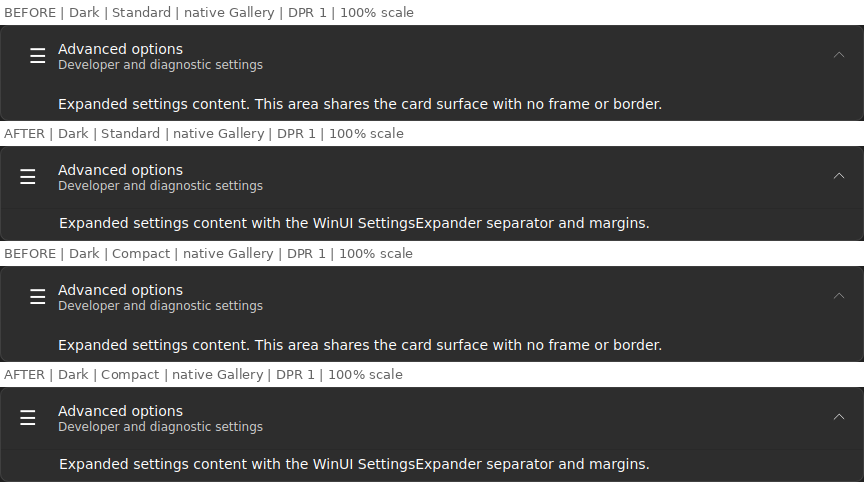
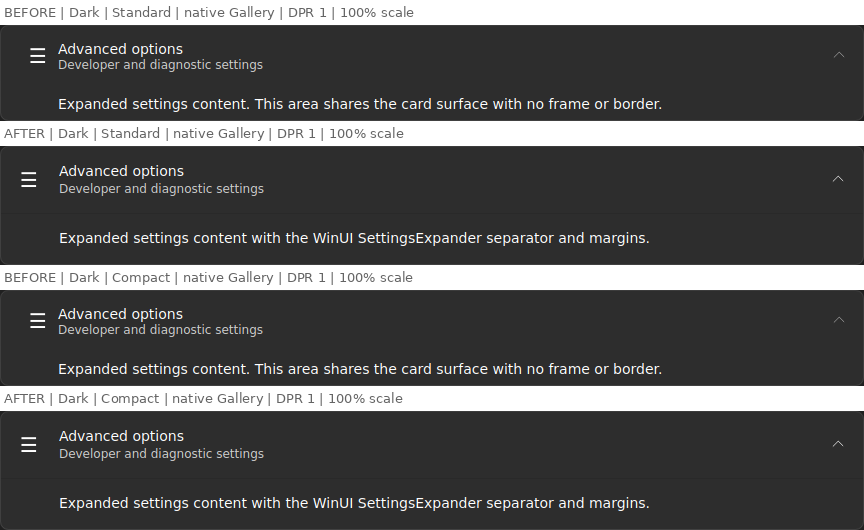
Account for item borders and align expanded Settings content

diff --git a/src/lib/settingscard.cpp b/src/lib/settingscard.cpp
@@ -63,11 +63,13 @@ SettingsCard::SettingsCard(QWidget *parent)
     m_headerHost->setMouseTracking(true);
     m_headerHost->installEventFilter(this);
     m_headerHost->setSizePolicy(QSizePolicy::Expanding, QSizePolicy::Fixed);
-    m_headerLayout->setContentsMargins(Private::SettingsCardPadding, 12,
-                                       Private::SettingsCardPadding, 12);
-    m_headerLayout->setHorizontalSpacing(12);
+    m_headerLayout->setContentsMargins(
+            Private::SettingsCardPadding + Private::SettingsCardBorderThickness, 12,
+            Private::SettingsExpanderChevronMargin + Private::SettingsCardBorderThickness, 12);
+    m_headerLayout->setHorizontalSpacing(Private::SettingsCardIconTrailingMargin);
     m_headerLayout->setVerticalSpacing(2);
-    m_iconLabel->setFixedWidth(20);
+    m_iconLabel->setFixedWidth(20 + Private::SettingsCardIconLeadingMargin);
+    m_iconLabel->setContentsMargins(Private::SettingsCardIconLeadingMargin, 0, 0, 0);
     m_iconLabel->setAlignment(Qt::AlignCenter);
     m_titleLabel->setSizePolicy(QSizePolicy::Expanding, QSizePolicy::Preferred);
     m_descriptionLabel->setSizePolicy(QSizePolicy::Expanding, QSizePolicy::Preferred);
@@ -75,7 +77,8 @@ SettingsCard::SettingsCard(QWidget *parent)
     m_titleLabel->setObjectName(QStringLiteral("_winui_settings_card_title"));
     m_descriptionLabel->setObjectName(QStringLiteral("_winui_settings_card_description"));
     m_chevronLabel->setObjectName(QStringLiteral("_winui_settings_card_chevron"));
-    m_chevronLabel->setFixedSize(20, 20);
+    m_chevronLabel->setFixedSize(Private::SettingsExpanderChevronBoxSize,
+                                 Private::SettingsExpanderChevronBoxSize);
     m_chevronLabel->setAlignment(Qt::AlignCenter);
     m_chevronLabel->setVisible(false);
     // Decorative header children let the header host receive the gesture so
@@ -94,7 +97,7 @@ SettingsCard::SettingsCard(QWidget *parent)
     m_headerLayout->addWidget(m_titleLabel, 0, 1);
     m_headerLayout->addWidget(m_descriptionLabel, 1, 1);
     m_headerLayout->addWidget(m_chevronLabel, 0, 2, 2, 1, Qt::AlignVCenter);
-    m_headerLayout->setColumnMinimumWidth(2, 20);
+    m_headerLayout->setColumnMinimumWidth(2, Private::SettingsExpanderChevronBoxSize);
     m_headerLayout->setColumnStretch(1, 1);
     m_headerHost->setLayout(m_headerLayout);
     m_rootLayout->addWidget(m_headerHost);
@@ -367,10 +370,11 @@ void SettingsCard::setExpandableWidget(QWidget *widget)
     }
     m_expandableWidget = widget;
     if (widget) {
-        auto *layout = new QVBoxLayout(m_expandableHost);
+        auto *layout = new QGridLayout(m_expandableHost);
         const bool rtl = layoutDirection() == Qt::RightToLeft;
         layout->setContentsMargins(Private::settingsExpanderContentMargins(rtl));
-        layout->addWidget(widget);
+        layout->setRowMinimumHeight(0, Private::SettingsExpanderContentRowMinHeight);
+        layout->addWidget(widget, 0, 0, Qt::AlignVCenter);
         widget->installEventFilter(this);
         const QPointer<QWidget> guarded = widget;
         m_expandableDestroyedConnection =
@@ -527,7 +531,8 @@ int SettingsCard::expandableContentHeight()
 
     const int width = m_expandableWidget->width();
     if (!m_expandableHeightValid || m_expandableContentWidth != width) {
-        m_expandableContentHeight = qMax(0, m_expandableWidget->sizeHint().height() + 16);
+        m_expandableContentHeight = qMax(Private::SettingsExpanderContentMinHeight,
+                                         m_expandableHost->layout()->sizeHint().height());
         m_expandableContentWidth = width;
         m_expandableHeightValid = true;
     }
@@ -598,6 +603,16 @@ void SettingsCard::changeEvent(QEvent *event)
             || event->type() == QEvent::LayoutDirectionChange;
     if (refreshHeader) {
         refreshIconPixmap();
+        if (event->type() == QEvent::LayoutDirectionChange) {
+            const bool rtl = layoutDirection() == Qt::RightToLeft;
+            const int leading = Private::SettingsCardPadding + Private::SettingsCardBorderThickness;
+            const int trailing =
+                    Private::SettingsExpanderChevronMargin + Private::SettingsCardBorderThickness;
+            m_headerLayout->setContentsMargins(rtl ? trailing : leading, 12,
+                                               rtl ? leading : trailing, 12);
+            m_iconLabel->setContentsMargins(rtl ? 0 : Private::SettingsCardIconLeadingMargin, 0,
+                                            rtl ? Private::SettingsCardIconLeadingMargin : 0, 0);
+        }
         if (event->type() == QEvent::LayoutDirectionChange && m_expandableHost->layout()) {
             const bool rtl = layoutDirection() == Qt::RightToLeft;
             m_expandableHost->layout()->setContentsMargins(

diff --git a/tests/tst_winui3settingscard.cpp b/tests/tst_winui3settingscard.cpp
@@ -150,6 +150,8 @@ private slots:
     void settingsCardExpansion();
     void settingsCardContentGeometry_data();
     void settingsCardContentGeometry();
+    void settingsCardNestedExpansionSeparator_data();
+    void settingsCardNestedExpansionSeparator();
     void settingsCardDesignerPropertyBindings();
     void settingsCardTrailingWidgetsReceiveClicks();
     void settingsCardTrailingWidgetsHaveUniformHeight();
@@ -374,12 +376,12 @@ void WinUI3SettingsCardTest::settingsCardChevronAndStableHeader()
     card.setProperty("expansionProgress", 0.0);
     QCoreApplication::processEvents();
     QCOMPARE(chevronRotation(), 0.0);
-    QCOMPARE(chevron->geometry().size(), QSize(20, 20));
+    QCOMPARE(chevron->geometry().size(), QSize(32, 32));
     const QImage collapsedGlyph = card.grab().toImage().copy(chevronInCard);
     card.setProperty("expansionProgress", 0.5);
     QCoreApplication::processEvents();
     QCOMPARE(chevronRotation(), 90.0);
-    QCOMPARE(chevron->geometry().size(), QSize(20, 20));
+    QCOMPARE(chevron->geometry().size(), QSize(32, 32));
     const QImage midpointGlyph = card.grab().toImage().copy(chevronInCard);
     QVERIFY(collapsedGlyph != midpointGlyph);
     card.setProperty("expansionProgress", 0.0);
@@ -881,8 +883,16 @@ void WinUI3SettingsCardTest::settingsCardContentGeometry()
     QCOMPARE(host->x(), 0);
     QCOMPARE(host->width(), card.width());
     QCOMPARE(host->layout()->contentsMargins(),
-             rtl ? QMargins(45, 6, 59, 9) : QMargins(59, 6, 45, 9));
+             rtl ? QMargins(45, 7, 59, 9) : QMargins(59, 7, 45, 9));
     QCOMPARE(details->mapTo(&card, QPoint()).x(), rtl ? 45 : 59);
+    auto *title = card.findChild<QLabel *>(QStringLiteral("_winui_settings_card_title"));
+    const int contentLeading = details->mapTo(&card, QPoint()).x() + (rtl ? details->width() : 0);
+    const int titleLeading = title->mapTo(&card, QPoint()).x() + (rtl ? title->width() : 0);
+    QCOMPARE(contentLeading, titleLeading);
+    QCOMPARE(details->geometry().center().y(), (host->height() - 9 + 7 - 1) / 2);
+    QCOMPARE(host->sizeHint().height(), 51);
+    QVERIFY(host->height() >= 51);
+
     const int seam = host->y() - 1;
     const QImage image = card.grab().toImage();
     const auto t = WinUI3::Private::tokens(card.palette());
@@ -893,6 +903,38 @@ void WinUI3SettingsCardTest::settingsCardContentGeometry()
     painter.fillRect(expected.rect(), t.cardStroke);
     painter.end();
     QCOMPARE(image.pixelColor(card.width() / 2, seam), expected.pixelColor(0, 0));
+}
+
+void WinUI3SettingsCardTest::settingsCardNestedExpansionSeparator_data()
+{
+    settingsCardContentGeometry_data();
+}
+void WinUI3SettingsCardTest::settingsCardNestedExpansionSeparator()
+{
+    QFETCH(bool, dark);
+    QFETCH(bool, compact);
+    QFETCH(bool, rtl);
+    qobject_cast<WinUI3::Style *>(qApp->style())
+            ->setThemeMode(dark ? WinUI3::ThemeMode::Dark : WinUI3::ThemeMode::Light);
+    QFrame outer;
+    WinUI3::Style::setSettingsCard(&outer);
+    WinUI3::Style::setDensityMode(
+            &outer, compact ? WinUI3::DensityMode::Compact : WinUI3::DensityMode::Standard);
+    outer.setLayoutDirection(rtl ? Qt::RightToLeft : Qt::LeftToRight);
+    outer.resize(480, 400);
+    auto *inner = new WinUI3::SettingsCard(&outer);
+    inner->setTitle(QStringLiteral("Nested"));
+    inner->setExpandableWidget(new QLabel(QStringLiteral("Details")));
+    inner->setGeometry(80, 160, 300, 200);
+    outer.show();
+    inner->setExpanded(true);
+    QTRY_COMPARE(inner->property("expansionProgress").toReal(), 1.0);
+    auto *host = inner->findChild<QWidget *>(QStringLiteral("_winui_settings_card_expandableHost"));
+    const int wrongSeam = host->y() - 1;
+    QVERIFY(wrongSeam < inner->y());
+    const QImage image = outer.grab().toImage();
+    // A nested host has no right to add a separator to the outer card.
+    QCOMPARE(image.pixelColor(20, wrongSeam), image.pixelColor(20, wrongSeam - 1));
 }
 
 QTEST_MAIN(WinUI3SettingsCardTest)

diff --git a/src/lib/winui3viewrenderers_p.cpp b/src/lib/winui3viewrenderers_p.cpp
@@ -428,9 +428,11 @@ bool drawChromeControl(const Style *style, QStyle::ControlElement element,
         controlSurface(painter, option->rect, fill, t.stroke, t.strokeSecondary, OverlayRadius);
         // The header's bottom border remains visible above the expanded
         // content. Both stock and compiled compositions delegate it here.
-        const QWidget *content = expansion ? expansion
-                                           : widget->findChild<QWidget *>(QStringLiteral(
-                                                     "_winui_settings_card_expandableHost"));
+        const QWidget *content = expansion
+                ? expansion
+                : widget->findChild<QWidget *>(
+                          QStringLiteral("_winui_settings_card_expandableHost"),
+                          Qt::FindDirectChildrenOnly);
         if (content && content->isVisible() && content->height() > 0 && content->y() > 0)
             painter->fillRect(
                     QRect(option->rect.left() + 1, content->y() - 1, option->rect.width() - 2, 1),
@@ -452,8 +454,9 @@ bool drawChromeControl(const Style *style, QStyle::ControlElement element,
             // corners are top-only (ExpandDown), which the card stroke above
             // already keeps for the frame; the chevron stays centered on the
             // header, not on the whole expanded card.
-            constexpr int chevronButtonSize = 32;
-            constexpr int chevronTrailingMargin = 8;
+            constexpr int chevronButtonSize = SettingsExpanderChevronBoxSize;
+            constexpr int chevronTrailingMargin =
+                    SettingsExpanderChevronMargin + SettingsCardBorderThickness;
             const int headerHeight =
                     qBound(0, settingsCardHeaderHeight(widget), option->rect.height());
             const QRect header(option->rect.left(), option->rect.top(), option->rect.width(),
@@ -527,9 +530,11 @@ bool drawChromeControl(const Style *style, QStyle::ControlElement element,
             // Qt's QToolBoxButton bolds the selected page, so the bold is
             // dropped by painting the option font as-is.
             constexpr int headerContentInset = 16; // ExpanderHeaderPadding 16,0,0,0
-            constexpr int chevronButtonSize = 32; // ExpanderChevronButtonSize
+            constexpr int chevronButtonSize =
+                    SettingsExpanderChevronBoxSize; // ExpanderChevronButtonSize
             constexpr int chevronGlyphSize = 12; // ExpanderChevronGlyphSize
-            constexpr int chevronTrailingMargin = 8; // ExpanderChevronMargin trailing 8
+            constexpr int chevronTrailingMargin = SettingsExpanderChevronMargin
+                    + SettingsCardBorderThickness; // ExpanderChevronMargin trailing 8
             constexpr int chevronContentGap = 20; // ExpanderChevronMargin leading 20
             constexpr qreal chevronRadius = 4.0; // ControlCornerRadius
             // Expander CornerRadius is ControlCornerRadius (4). ExpandDown

diff --git a/tests/tst_winui3galleryprobe.cpp b/tests/tst_winui3galleryprobe.cpp
@@ -784,8 +784,8 @@ void WinUI3GalleryProbeTest::settingsIconAlignment()
         auto *icon = window.findChild<QLabel *>(names.second);
         const int x = icon->mapTo(card, QPoint()).x();
         QCOMPARE(icon->size(), QSize(20, 20));
-        // SettingsCardPadding.Left 16 + HeaderIconMargin.Left 2.
-        QCOMPARE(rtl ? card->width() - x - icon->width() : x, 18);
+        // SettingsCardborder 1 + Padding.Left 16 + HeaderIconMargin.Left 2.
+        QCOMPARE(rtl ? card->width() - x - icon->width() : x, 19);
         const QImage image = card->grab().toImage();
         const QRect bounds(icon->mapTo(card, QPoint()), icon->size());
         const QColor surface = image.pixelColor(bounds.left() - 1, bounds.center().y());
@@ -810,13 +810,21 @@ void WinUI3GalleryProbeTest::settingsExpansionMargins()
     auto *card = window.findChild<QFrame *>("advancedCard");
     auto *host = window.findChild<QWidget *>("advancedDetailsHost");
     card->setProperty("winuiSettingsCardExpanded", true);
-    QTRY_VERIFY(host->height() > 0);
+    QTRY_VERIFY(host->maximumHeight() == QWIDGETSIZE_MAX);
+    QTRY_VERIFY(host->height() >= 51);
     // Item padding + content border + the template's -2 presenter overlap.
     QCOMPARE(host->layout()->contentsMargins(),
-             rtl ? QMargins(45, 6, 59, 9) : QMargins(59, 6, 45, 9));
+             rtl ? QMargins(45, 7, 59, 9) : QMargins(59, 7, 45, 9));
     auto *label = window.findChild<QLabel *>("advancedDetails");
-    QCOMPARE(label->mapTo(host, QPoint()).y(), 6);
+    QCOMPARE(label->geometry().center().y(), (host->height() - 9 + 7 - 1) / 2);
     QCOMPARE(label->mapTo(host, QPoint()).x(), rtl ? 45 : 59);
+    auto *title = window.findChild<QLabel *>("advancedTitle");
+    const int contentLeading = label->mapTo(card, QPoint()).x() + (rtl ? label->width() : 0);
+    const int titleLeading = title->mapTo(card, QPoint()).x() + (rtl ? title->width() : 0);
+    QCOMPARE(contentLeading, titleLeading);
+    QCOMPARE(host->minimumSizeHint().height(), 51);
+    QVERIFY(host->height() >= 51);
+    QVERIFY(window.findChild<QWidget *>("advancedHeader")->height() >= 68);
 }
 void WinUI3GalleryProbeTest::settingsExpansionSeparator_data()
 {
@@ -865,7 +873,7 @@ void WinUI3GalleryProbeTest::settingsChevronForeground()
         const auto t = WinUI3::Private::tokens(card->palette());
         const QColor ink = enabled ? t.textPrimary : t.textDisabled;
         QCOMPARE(ink.alpha(), enabled ? (dark ? 255 : 228) : (dark ? 93 : 92));
-        const QRect logical(card->width() - 8 - 32, (header->height() - 32) / 2, 32, 32);
+        const QRect logical(card->width() - 9 - 32, (header->height() - 32) / 2, 32, 32);
         const QRect box = QStyle::visualRect(card->layoutDirection(), header->rect(), logical);
         const QImage actual = card->grab().toImage();
         QImage expected(box.size(), QImage::Format_ARGB32_Premultiplied);

diff --git a/src/lib/winui3tokens_p.h b/src/lib/winui3tokens_p.h
@@ -22,8 +22,15 @@ constexpr int NormalDuration = 250;
 constexpr int SettingsExpanderExpandDuration = 333;
 constexpr int SettingsExpanderCollapseDuration = 167;
 constexpr int SettingsExpanderChevronGlyphSize = 16;
+constexpr int SettingsExpanderChevronBoxSize = 32;
+constexpr int SettingsExpanderChevronMargin = 8;
+constexpr int SettingsCardContentSpacing = 24;
 // SettingsControls templates pinned in docs/coverage.md (issue #56).
 constexpr int SettingsCardPadding = 16;
+constexpr int SettingsCardBorderThickness = 1;
+constexpr int SettingsCardMinHeight = 68;
+constexpr int SettingsExpanderContentMinHeight = 52 - 2 + 1;
+constexpr int SettingsExpanderContentRowMinHeight = SettingsExpanderContentMinHeight - 7 - 9;
 constexpr int SettingsCardIconLeadingMargin = 2;
 constexpr int SettingsCardIconTrailingMargin = 20;
 inline QMargins settingsCardIconMargins(bool rtl)
@@ -34,12 +41,13 @@ inline QMargins settingsCardIconMargins(bool rtl)
 inline QMargins settingsExpanderHeaderMargins(bool rtl)
 {
     // HeaderPadding 16,16,4,16 + the 32 px chevron box + 8 px margin.
-    return rtl ? QMargins(44, 16, 16, 16) : QMargins(16, 16, 44, 16);
+    return rtl ? QMargins(45, 17, 17, 17) : QMargins(17, 17, 45, 17);
 }
 inline QMargins settingsExpanderContentMargins(bool rtl)
 {
-    // ItemPadding 58,8,44,8 + border 1,0,1,1 + presenter Margin 0,-2,0,0.
-    return rtl ? QMargins(45, 6, 59, 9) : QMargins(59, 6, 45, 9);
+    // ItemPadding 58,8,44,8 + content border 1,0,1,1 + item border 0,1,0,0
+    // + presenter Margin 0,-2,0,0. Header also includes its 1 px border.
+    return rtl ? QMargins(45, 7, 59, 9) : QMargins(59, 7, 45, 9);
 }
 constexpr qreal ControlRadius = 4.0;
 constexpr qreal OverlayRadius = 8.0;

diff --git a/src/gallery/gallerywindow.cpp b/src/gallery/gallerywindow.cpp
@@ -142,6 +142,17 @@ void GalleryWindow::refreshCardIcons()
                              static_cast<QLayout *>(ui->updatesCardIconLayout),
                              static_cast<QLayout *>(ui->advancedIconLayout) })
         layout->setContentsMargins(WinUI3::Private::settingsCardIconMargins(rtl));
+    const int inset =
+            WinUI3::Private::SettingsCardPadding + WinUI3::Private::SettingsCardBorderThickness;
+    for (QLayout *layout : { static_cast<QLayout *>(ui->notificationsCardLayout),
+                             static_cast<QLayout *>(ui->updatesCardLayout) })
+        layout->setContentsMargins(inset, inset, inset, inset);
+    ui->advancedTextLayout->setContentsMargins(
+            rtl ? WinUI3::Private::SettingsCardContentSpacing : 0, 0,
+            rtl ? 0 : WinUI3::Private::SettingsCardContentSpacing, 0);
+    ui->advancedHeader->setMinimumHeight(WinUI3::Private::SettingsCardMinHeight);
+    ui->advancedDetailsLayout->setRowMinimumHeight(
+            0, WinUI3::Private::SettingsExpanderContentRowMinHeight);
     ui->advancedHeaderLayout->setContentsMargins(
             WinUI3::Private::settingsExpanderHeaderMargins(rtl));
     ui->advancedDetailsLayout->setContentsMargins(

diff --git a/docs/coverage.md b/docs/coverage.md
@@ -209,7 +209,7 @@ to `source-audited`; missing evidence remains explicit in the last column.
 | opted-in `QDialog` / `QMessageBox` | ContentDialog | Compound mapping | source-audited | `messageBoxContentDialogContract`, `messageBoxRichTextLabelsDoNotOverlap`; distinct content and command/footer surfaces, 320×184 minimum, 24 px content margin, 12 px spacing, accent default button, Fluent message glyphs and 83/250 ms show motion; live modality/dismissal/dark comparison remains |
 | `QWizard` / `QWizardPage` | Multi-step dialog composition | Consistency extension | source-audited | separate content/footer surfaces and automatic accent Next/Finish roles are covered; the command strip now sits on the same `SolidBackgroundFillColorBase` token as ContentDialog's CommandSpace (`dialogCommandFillColor`, `#202020` Dark / `#F3F3F3` Light) instead of the app chrome `Window` tone that made it indistinguishable from the raised body, and it is reparented into Qt's full-size wizard body host - as a sibling it was painted under that host and never showed, which is why the strip read as body `#2C2C2C`; `wizardSurfaceContract` and `wizardOpenThemeSwitchLifecycle` assert the footer fill against the token in both themes. Qt <= 6.11 also flipped every wizard to `AeroStyle` on its first Show even when `SH_WizardStyle` answered `ModernStyle` (Qt initializes `vistaInitPending` to true; 6.12 only sets it for AeroStyle), which offset the body host by the Vista title bar and pushed the command row out of the client rect; polish now re-asserts `ModernStyle`, and `wizardSurfaceContract` pairs the footer pixel with `wizardStyle()` and the host's top edge. Native navigation, cancellation, RTL and live WinUI comparison remain |
 | `QAbstractItemView[winuiNavigationView=true]` | NavigationView item | Semantic variant | partial - in-card defect live-confirmed fixed 2026-11-05, uniform-mica direction accepted; 2026-10-06 uniform-mica reversal (reviewer: no added pane backgrounds — shell pane and palette preview stay on the bare material) | style-owned delegate, real click, selected-pill transition, palette ownership and Mica/theme restoration tested; `Selected` / `PointerOverSelected` / `PressedSelected` map to Secondary / Tertiary / Secondary. `navigationSelectedStateFill` reproduced the reversed order RED across Light/Dark × Standard/Compact, then passed GREEN after correcting those fills. `navigationIconlessTextInset` likewise reproduced the 42px iconless inset RED, then passed GREEN at 18px, retaining 42px when an icon exists; the pinned XAML has `IconCollapsed` column width 8px and content margin 4px. Compact official instance, mouse-down frame, keyboard focus and motion remain unverified |
-| `QFrame[winuiSettingsCard=true]` + child `[winuiSettingsCardExpansion=true]` / settings-card and SettingsExpander composition | Gallery Settings page | Semantic variant + compound behavior | partial — issue #56 reopens icon alignment, expansion separator/margins and chevron ink (2026-11-14); animation lifecycle reopened and fixed 2026-11-13; local native Qt Light/Dark × Standard/Compact expansion, reversal, keyboard, rapid toggles, hide/show, resize and close-during-collapse pass completed with matching rebuilt DLLs at DPR 1; pinned official comparison remains before restoring the prior 2026-11-07 Verified status; `settingsCardExpansion` and `settingsCardStockExpansionAnimationLifecycle` cover motion and application/per-widget style replacement | Mapping: the card is `SettingsCard.xaml` (CardBackgroundFillColorDefault, 1 px CardStrokeColorDefault, ControlCornerRadius, Padding 16,16,16,16, MinWidth 148, MinHeight 68, header icon MaxSize 20 with Margin 2,0,20,0, header text panel trailing margin 24, description `SettingsCardDescriptionFontSize` 12). `winuiSettingsCardExpansion=true` on the direct child marks the collapsible content; `winuiSettingsCardExpanded` is the read/write state. The style owns the header hit area (up to the child's y), StrongFocus with a keyboard-only ring, the ChevronDown glyph in a 32×32 box with Margin 0,0,8,0 (16 px glyph rotating 0→180°), and the expand 0.333 s / collapse 0.167 s splines from `SettingsExpander.xaml` (`components/SettingsControls`, CommunityToolkit/Windows `main`). The compiled `SettingsCard` shares these duration/easing definitions and paints the same 16 px glyph through the style. Stock card size policy is Fixed vertically like the compiled widget, so a stretched page gives spare height to its trailing stretch. Density does not alter the pinned card metrics (Compact covered by a data row). Issue #56 mapping declared before implementation: preserve stock Qt composition; QStyle paints the header/content seam with `ExpanderContentBorderBrush` = `CardStrokeColorDefault` (black alpha 15 Light / 25 Dark, not ControlStroke or FlyoutStroke). `ExpanderChevronForeground` = TextFillColorPrimaryBrush. Header icon layout reserves its actual 2 leading + 20 icon + 20 trailing pixels, without centering inside the full 42 px lane. Compose SettingsExpanderItemPadding 58,8,44,8 with ExpanderContentDownBorderThickness 1,0,1,1 and ContentPresenter Margin 0,-2,0,0: effective content margins 59,6,45,9 (mirror horizontally in RTL). SettingsControls source pinned to CommunityToolkit/Windows `a2fa47ad72cb95ed81f3ff0885da627a5fd6c14e`, `components/SettingsControls/src/{SettingsCard/SettingsCard.xaml,SettingsExpander/SettingsExpander.xaml}`; Microsoft Expander/Common resources remain pinned to `9f89c2da5a5502c263d9268fee224697c47ecb6e`. No new widget, QSS or per-widget paint. |
+| `QFrame[winuiSettingsCard=true]` + child `[winuiSettingsCardExpansion=true]` / settings-card and SettingsExpander composition | Gallery Settings page | Semantic variant + compound behavior | partial — issue #56 reopens icon alignment, expansion separator/margins and chevron ink (2026-11-14); animation lifecycle reopened and fixed 2026-11-13; local native Qt Light/Dark × Standard/Compact expansion, reversal, keyboard, rapid toggles, hide/show, resize and close-during-collapse pass completed with matching rebuilt DLLs at DPR 1; pinned official comparison remains before restoring the prior 2026-11-07 Verified status; `settingsCardExpansion` and `settingsCardStockExpansionAnimationLifecycle` cover motion and application/per-widget style replacement | Mapping: the card is `SettingsCard.xaml` (CardBackgroundFillColorDefault, 1 px CardStrokeColorDefault, ControlCornerRadius, Padding 16,16,16,16, MinWidth 148, MinHeight 68, header icon MaxSize 20 with Margin 2,0,20,0, header text panel trailing margin 24, description `SettingsCardDescriptionFontSize` 12). `winuiSettingsCardExpansion=true` on the direct child marks the collapsible content; `winuiSettingsCardExpanded` is the read/write state. The style owns the header hit area (up to the child's y), StrongFocus with a keyboard-only ring, the ChevronDown glyph in a 32×32 box with Margin 0,0,8,0 (16 px glyph rotating 0→180°), and the expand 0.333 s / collapse 0.167 s splines from `SettingsExpander.xaml` (`components/SettingsControls`, CommunityToolkit/Windows `main`). The compiled `SettingsCard` shares these duration/easing definitions and paints the same 16 px glyph through the style. Stock card size policy is Fixed vertically like the compiled widget, so a stretched page gives spare height to its trailing stretch. Density does not alter the pinned card metrics (Compact covered by a data row). Issue #56 mapping declared before implementation: preserve stock Qt composition; QStyle paints the header/content seam with `ExpanderContentBorderBrush` = `CardStrokeColorDefault` (black alpha 15 Light / 25 Dark, not ControlStroke or FlyoutStroke). `ExpanderChevronForeground` = TextFillColorPrimaryBrush. Header icon layout reserves its actual 2 leading + 20 icon + 20 trailing pixels, without centering inside the full 42 px lane. Compose SettingsExpanderItemPadding 58,8,44,8 with ExpanderContentDownBorderThickness 1,0,1,1, the item top border 0,1,0,0 and ContentPresenter Margin 0,-2,0,0: effective content margins 59,7,45,9 (mirror horizontally in RTL). Header padding includes the same 1 px border (icon x19, text x59). Map one DefaultSettingsExpanderItemStyle item: MinHeight 52 with presenter -2 and content border +1 gives a 51 px minimum band, with a 35 px vertically centered content row. Multiple arbitrary child rows and ItemsHeader/ItemsFooter are not claimed as item-template mappings. SettingsControls source pinned to CommunityToolkit/Windows `a2fa47ad72cb95ed81f3ff0885da627a5fd6c14e`, `components/SettingsControls/src/{SettingsCard/SettingsCard.xaml,SettingsExpander/SettingsExpander.xaml}`; Microsoft Expander/Common resources remain pinned to `9f89c2da5a5502c263d9268fee224697c47ecb6e`. No new widget, QSS or per-widget paint. |
 | `Top-level QWidget[winuiBackdrop=mica]` (+ `micaalt`, `acrylic`) | Window SystemBackdrop (Mica / Mica Alt / Desktop Acrylic via `DWMWA_SYSTEMBACKDROP_TYPE`) | Direct | partial — caption lifecycle reopened 2026-09-19 | `applyBackdrop` maps to DWM `DWMSBT_MAINWINDOW`/`TABBEDWINDOW`/`TRANSIENTWINDOW` + full-frame extend, opaque `Painted` fallback offscreen/refused; single erase policy in `winui3helpers_p.h` (shared gate + recipe 1 erase-then-fill default, recipe 2 erase-means-transparent, recipe 3 `clearForBackdropFill` for acrylic popup pills) + island scroll guard + chrome/content transparentize/restore covered by `backdropLifecycleContract`, `backdrop*DoesNotAccumulate`, `islandScrollPostsFullViewportRepaint`, `materialErase*`, theme/chrome/resize/expose/move contracts; caption evidence below; broader live compositor verification remains. |
 | `QTabWidget` pane + item-view card inside `winuiSurface=content` under a live backdrop | TabView content card over SystemBackdrop (same veiled LayerFill card recipe as the Fluent group card) | Direct (backdrop extension of the TabView/ListView rows above) | Verified 2026-11-05 - live Gallery pass over the Collections page under Mica (defect 2026-10-03) | Mapping: NONE mode keeps the opaque `t.control` pane card with a `t.surface` gap (unchanged, snapshot-matrix covered). Over a Composited material the pane keeps `veiledCard(t.layer)` — white@128 Light / (58,58,58)@76 Dark, the same token group cards use, clamped by `VeiledCardAlpha` — while the island gap around the card and the window chrome stay alpha 0. `QTabWidget` and its pages are keep-opaque container cards (recipe 1 fill via `PE_FrameTabWidget`, never transparentized by `syncContentSurfacesForBackdrop`), and a child `PE_Widget` Source-clear inside the card is skipped by the shared card guard. Mechanism evidence: `tabPaneCardVeilsOverComposited` (RED pane alpha 0 / transparent card canvas → GREEN veiled card tone + alpha-0 gap); recipe state re-scoped in `tabPaneCardLinksStayOpaqueWhileIslandSharesMaterial`. The pane's top stroke sits on the tab bar's last row (`PM_TabBarBaseOverlap == 1`), and the unselected tab shape used to Source-clear its whole rect — erasing that 1 px hairline to alpha 0 over the material while NONE kept it, so the Collections strip lost its separator; the clear now stops one row short, and `galleryTreeKeepsCardFillOverComposited` reproduces the real Designer tree (RED `row 31 … #00000000` → GREEN stroke composited over the pane veil, with the bare-strip alpha-0 and token/geometry asserts paired). Live re-review of the Collections page under Mica remains required before Verified. |
 | child viewport / editor / splitter / check / lineedit inside an opaque card under a live backdrop | child control over a card surface (WinUI paints children on the card, never a hole to the material) | Consistency extension (backdrop contract of the `QGroupBox` row above) | Verified 2026-11-05 - live Gallery pass; defect 2026-10-04 fixed, mechanism green 2026-11-05 - the shared `insideOpaqueCard` guard keeps card children on the card fill, and the `palettePreview` card itself is bare material by the 2026-10-06 uniform-mica direction; the pass covered the in-card item view, editor, checkbox and line edit plus the Dialogs-page splitter panes and table viewport | Mapping: the card keeps its `veiledCard(t.layer)` fill, and a child that paints straight onto the material by the shared gate must never Source-clear the card fill — the slider/scrollbar precedent (`backdropSliderInsideOpaqueCardKeepsCardFill`, `scrollBarInsideOpaqueCardKeepsCardFill`) is now the shared `insideOpaqueCard` guard used by the `PE_Widget` erase path, the scroll-chain/bare-container sync, and the range-control erases. Viewport/editor/splitter children inside a card are not transparentized (no `WA_StyledBackground`, no zero-alpha Window role), and even a directly dispatched `PE_Widget` erase returns without clearing. Selected/hovered item rows rebuild the card tone under the pill (same erase-then-fill, `treeSelectionKeepsCardFillOverComposited`, 2026-10-06). Mechanism evidence: `groupCardChildKeepsCardFillOverComposited` (RED card canvas punched to alpha 0 under the viewport/editor → GREEN card tone survives, paired token/geometry asserts). Live re-review of the scrolled Dialogs page under Mica remains required before Verified. |

diff --git a/docs/validation/issue56/README.md b/docs/validation/issue56/README.md
@@ -4,11 +4,11 @@
 
 Issue: https://github.com/JulienMaille/WinUI3Style/issues/56
 
-The existing stock QFrame/expansion QWidget composition remains unchanged. QStyle owns the separator, chevron, input state and expansion animation. The compiled SettingsCard helper uses the same content-margin and separator contract.
+The existing stock QFrame/expansion QWidget composition remains in use. QStyle owns the separator, chevron, input state and expansion animation. The compiled SettingsCard helper uses the same content-margin and separator contract. The layout maps one DefaultSettingsExpanderItemStyle item; arbitrary multi-row content and ItemsHeader/ItemsFooter do not claim individual item-template coverage.
 
-The icon occupies a 20 px label with 2 px leading and 20 px trailing margins. A 42 px lane must not center the label in the unused trailing space. The Gallery now mirrors the physical margins in RTL.
+The icon starts at border 1 + padding 16 + leading margin 2 = 19 px. The icon occupies a 20 px label with 2 px leading and 20 px trailing margins. A 42 px lane must not center the label in the unused trailing space. The Gallery now mirrors the physical margins in RTL.
 
-The expanded content combines `SettingsExpanderItemPadding` (58,8,44,8), `ExpanderContentDownBorderThickness` (1,0,1,1), and `ContentPresenter.Margin` (0,-2,0,0). The effective margins are 59,6,45,9, mirrored horizontally in RTL. The header bottom border remains visible as a one-pixel separator.
+The expanded content combines `SettingsExpanderItemPadding` (58,8,44,8), `ExpanderContentDownBorderThickness` (1,0,1,1), item border (0,1,0,0), and `ContentPresenter.Margin` (0,-2,0,0). The effective margins are 59,7,45,9, mirrored horizontally in RTL. The header bottom border remains visible as a one-pixel separator. The item adds its own 1 px top border and MinHeight 52; after presenter overlap and content bottom border, the expansion band has minimum height 51. Header padding also includes the outer 1 px border, so header and content text align at x59.
 
 `ExpanderContentBorderBrush` maps to `CardStrokeColorDefault`: black alpha 15 in Light and black alpha 25 in Dark. This is not the white-alpha-18 Dark `ControlStrokeColorDefault`, nor the flyout stroke. `ExpanderChevronForeground` maps to primary text in normal, hover and pressed states; disabled uses disabled text.
 
@@ -27,7 +27,7 @@ The Toolkit sources replace the previous floating `main` citation with an immuta
 
 The capture driver instantiates the real GalleryWindow sources and Designer form. It opens the actual Settings page and sends separate mouse move/down/up events to the expansion header. It also replays keyboard expansion and collapse. It captures the native XCB screen with `QScreen::grabWindow(0, ...)`, not mock HTML or a recreated control. All images use Qt 6.8.3, Linux XCB, an isolated Xvnc display, an 1180×780 Gallery window, DPR 1, no backdrop, and settled rest state. The system font differs from Windows Segoe.
 
-The panels add captions only. No image is resized or recolored. The RGBA canvas and alpha composition preserve transparency. BEFORE content margins are 58,8,44,8; AFTER margins are 59,6,45,9. The text changes only because the old sample incorrectly claimed that expansion has no border.
+The panels add captions only. No image is resized or recolored. The RGBA canvas and alpha composition preserve transparency. BEFORE content margins are 58,8,44,8; AFTER margins are 59,7,45,9. The text changes only because the old sample incorrectly claimed that expansion has no border.
 
 The supplied Windows reference image and pinned XAML support the contract. A live side-by-side Windows Gallery comparison is **not verified** in this Linux session. Coverage remains partial.
 
